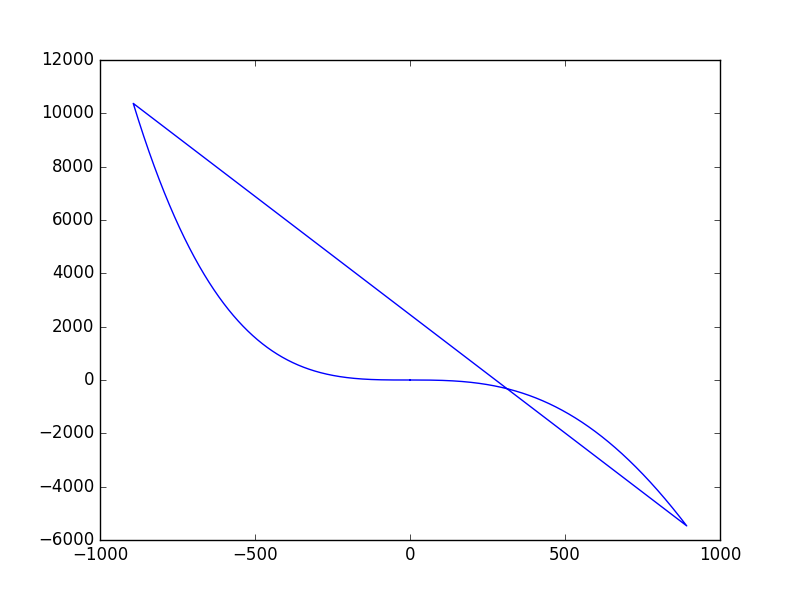
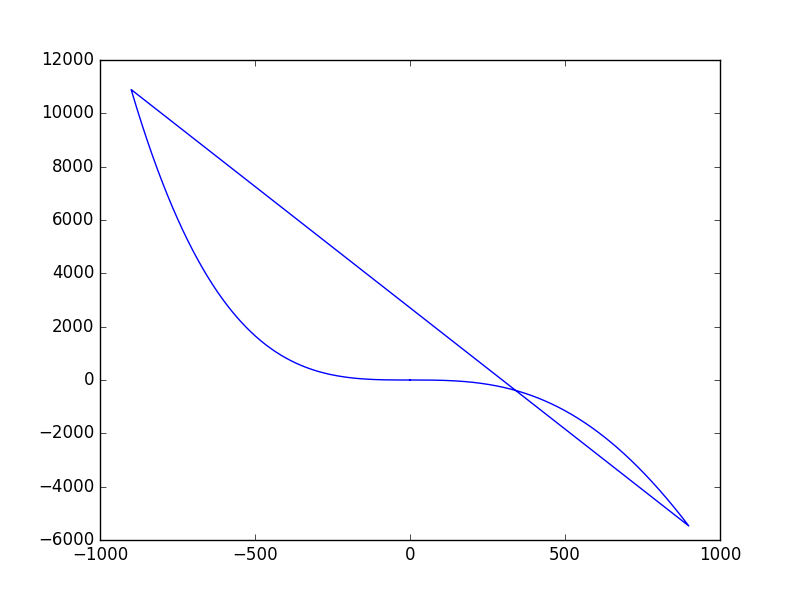
checked the sidebands for a number of pump wavelength. Turns out that they are the same as the zlobina ones and the ones in the log. Good. Now for the wdm

diff --git a/mm_gnlse_2D.py b/mm_gnlse_2D.py
@@ -212,7 +212,7 @@ def main():
 	int_fwm.propagation_parameters(N, z, nplot, dz_less, wavelength_space)
 	fft, ifft, fft_method = pick(N,nm,100)
 	"---------------------FWM wavelengths----------------------------------------"
-	lam_p1 = 1047.5              #[nm]
+	lam_p1 = 1051.4              #[nm]
 	lams_max_asked = 1051	   	  #[nm]
 	lv = lam_p2_vary(2,lam_p1,Power_input,int_fwm,0,gama,fft,ifft,False,True).lv[::-1]
 	lv_lams = np.abs(np.asanyarray(lv) - lams_max_asked)
